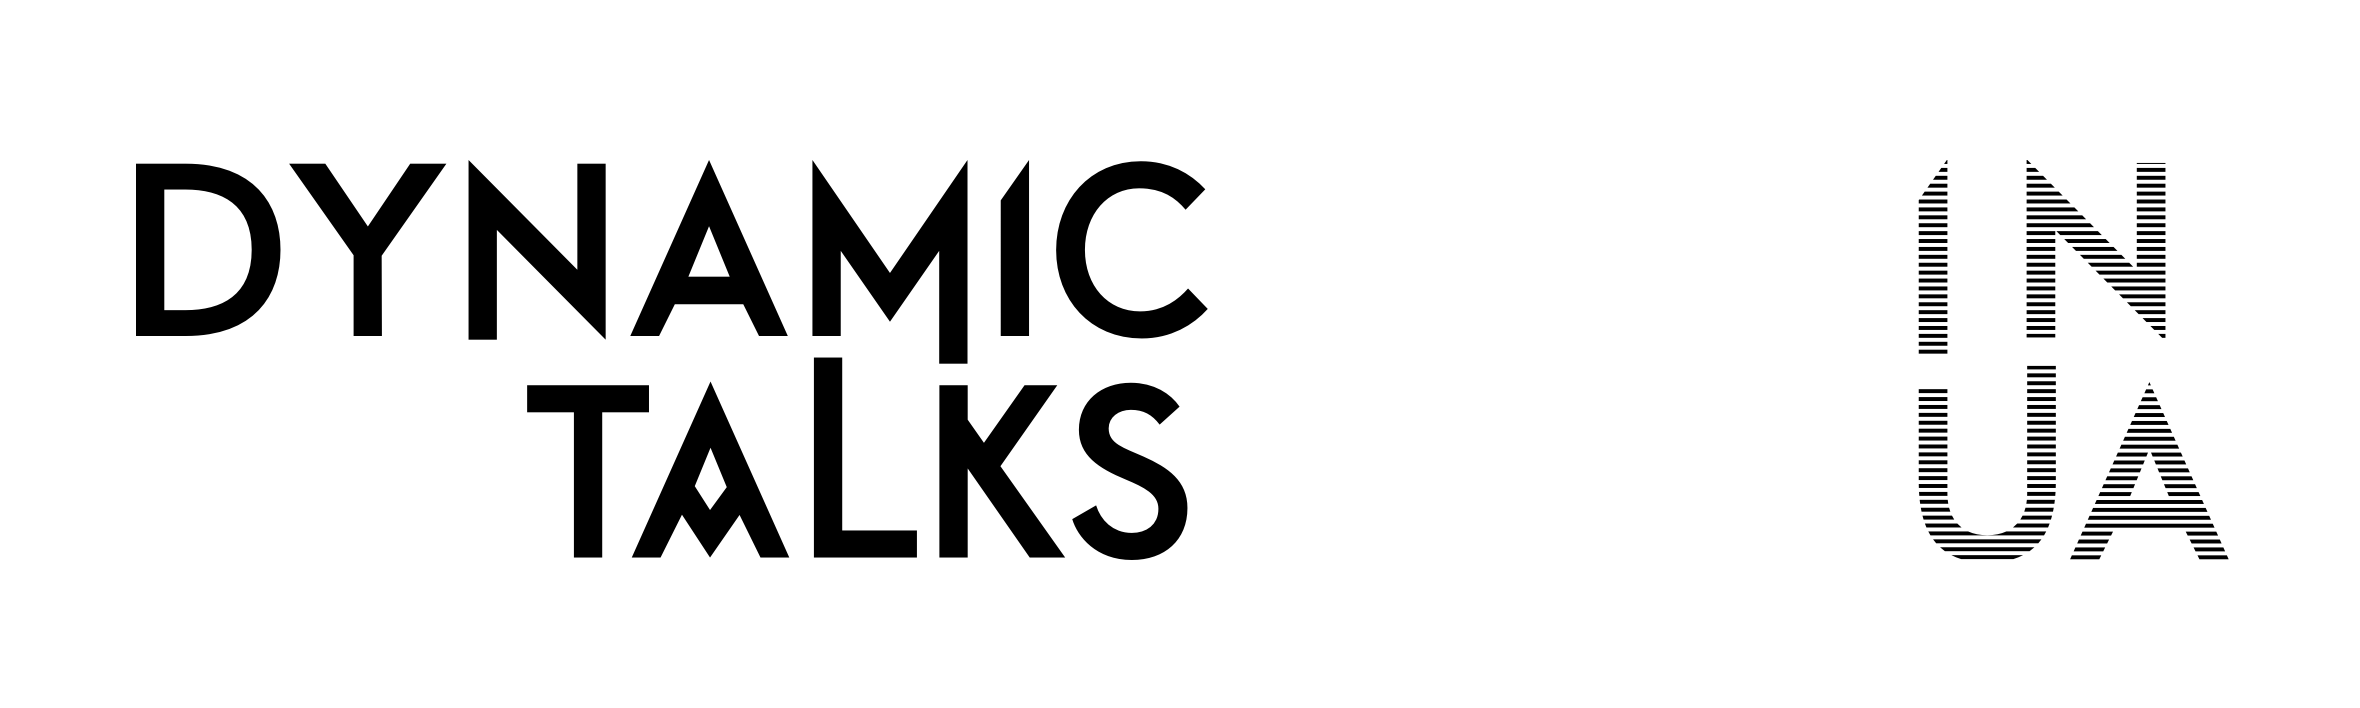
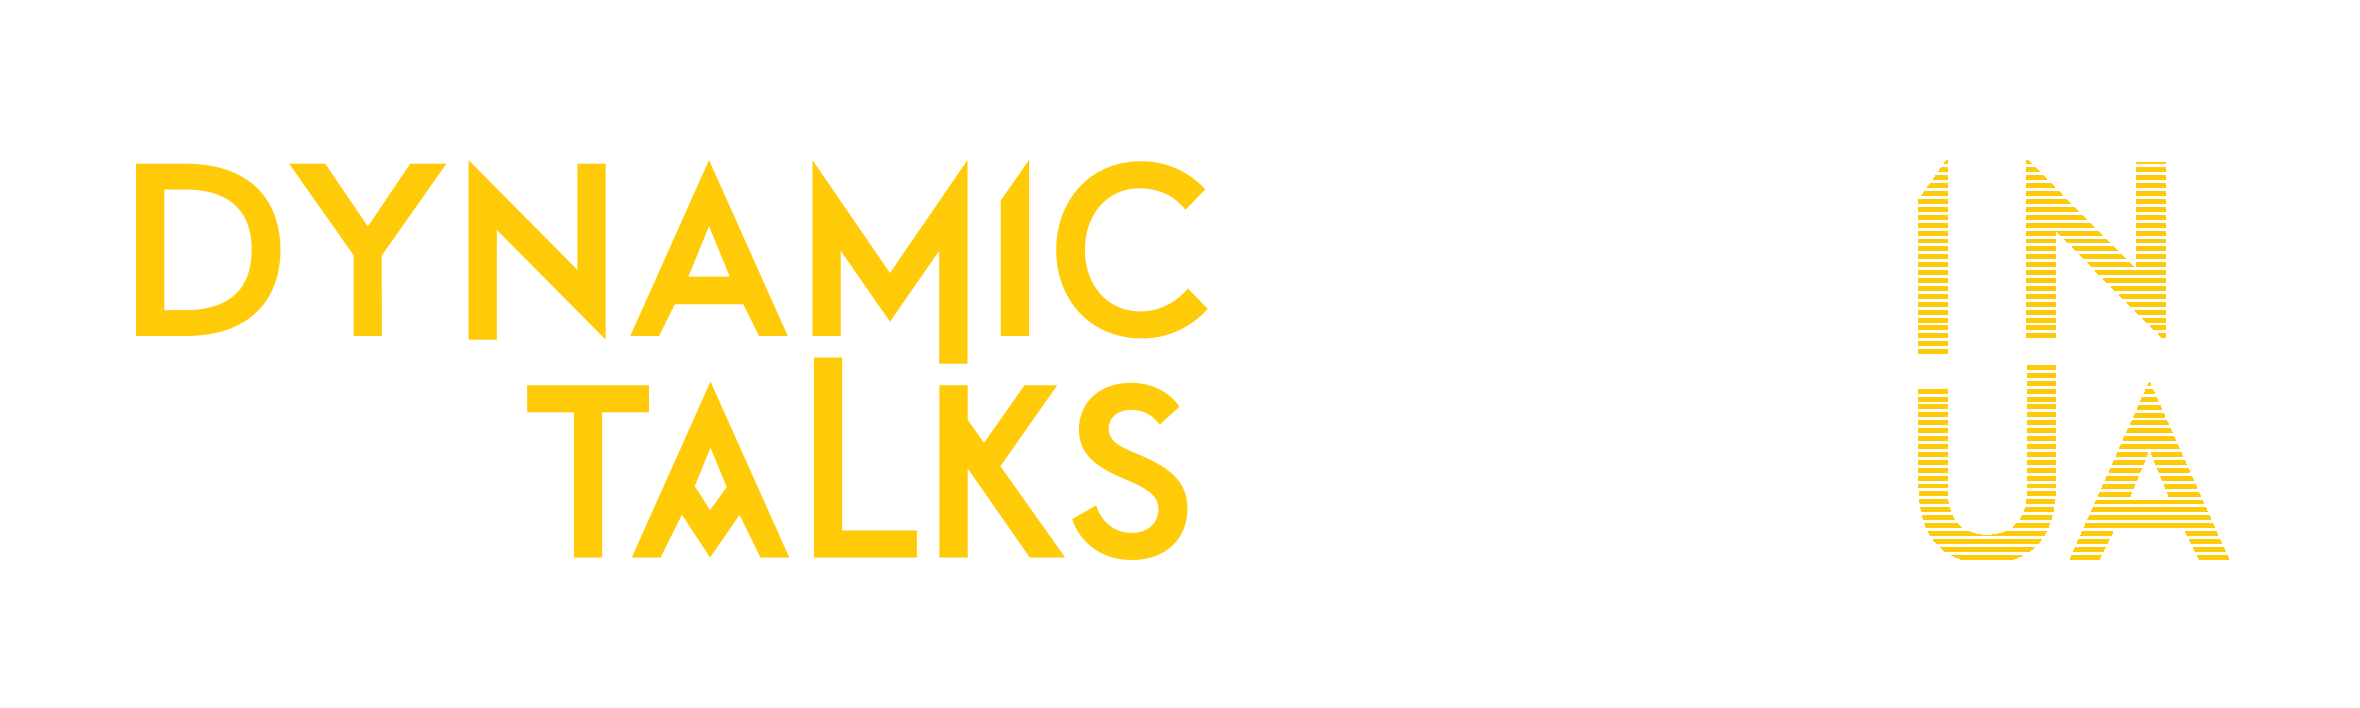
purple styles

Changed region(s): [[0.0309, 0.2175, 0.5258, 0.8079], [0.8042, 0.5282, 0.9589, 0.8079], [0.8042, 0.2175, 0.928, 0.4972]]

diff --git a/src/components/Section/SectionHeader/SectionHeader.js b/src/components/Section/SectionHeader/SectionHeader.js
@@ -11,6 +11,10 @@ import './SectionHeader.scss';
 
 
 export const CN = 'section-header';
+export const TITLE_THEMES = {
+  PRIMARY: 'primary',
+  SECONDERY: 'secondery'
+};
 
 
 export default class SectionHeader extends Component {
@@ -74,15 +78,17 @@ export default class SectionHeader extends Component {
           logoTheme: LOGO_THEME.COLORED,
           eventDateTheme: ED_THEME.YELLOW,
           regButtonTheme: BUTTON_THEME.YELLOW,
-          eventPlaceTheme: EP_THEME.YELLOW
+          eventPlaceTheme: EP_THEME.YELLOW,
+          titleTheme: TITLE_THEMES.PRIMARY
         };
       case SECTION_THEME.YELLOW:
       default:
         return {
           logoTheme: LOGO_THEME.BW,
           eventDateTheme: ED_THEME.WHITE,
-          regButtonTheme: BUTTON_THEME.WHITE,
-          eventPlaceTheme: EP_THEME.WHITE
+          regButtonTheme: BUTTON_THEME.YELLOW,
+          eventPlaceTheme: EP_THEME.WHITE,
+          titleTheme: TITLE_THEMES.SECONDERY
         };
     }
   }
@@ -116,7 +122,7 @@ export default class SectionHeader extends Component {
 
 
         <div className={`${CN}__col ${CN}__col--middle`}>
-          { title && <h2 className={`${CN}__title`}>{title}</h2> }
+          { title && <h2 className={`${CN}__title ${CN}__title--${themes.titleTheme}`}>{title}</h2> }
           { shape && <div className={`${CN}__shape ${CN}__shape--${shape}`}/> }
         </div>
 

diff --git a/src/components/Speakers/Speaker/Speaker.scss b/src/components/Speakers/Speaker/Speaker.scss
@@ -9,7 +9,7 @@
   align-items: center;
   width: 30%;
   padding-bottom: 200px;
-  background-color: $color-grey;
+  background-color: $color-primary2;
 
   .portrait {
     position: absolute;
@@ -19,7 +19,7 @@
       width: 200px;
       height: 200px;
       border-radius: 50%;
-      border: 12px solid $color-orange;
+      border: 12px solid $color-primary;
     }
   }
 
@@ -27,7 +27,7 @@
     @include font-family-opensans-bold;
 
     text-align: center;
-    color: $color-black;
+    color: $color-white;
     font-size: 1.5em;
     text-transform: uppercase;
     position: relative;
@@ -48,7 +48,7 @@
     .special-guest {
       font-family: $font-family-opensans-regular;
       margin-bottom: 20px;
-      color: $color-orange;
+      color: $color-white;
       font-size: 0.7em;
       text-align: left;
       text-transform: none;
@@ -64,11 +64,11 @@
 
   p {
     font-family: $font-family-opensans-regular;
-    color: $color-black;
     font-size: 1.3em;
   }
 
   p, ul {
+    color: $color-white;
     padding: 10px 20px;
     font-size: $font-size-regular-res;
   }

diff --git a/src/components/Top/Top.scss b/src/components/Top/Top.scss
@@ -4,7 +4,6 @@
 
 .main {
   position: relative;
-  background-color: $color-orange;
   overflow: hidden;
   box-sizing: border-box;
   min-height: 101vh;
@@ -38,7 +37,7 @@
       p {
         @include font-family-opensans-bold();
         text-transform: uppercase;
-        color: $color-white;
+        color: $color-secondary;
         font-size: 3rem;
         letter-spacing: .95rem;
       }

diff --git a/src/variables.scss b/src/variables.scss
@@ -1,6 +1,14 @@
 $font-family-opensans-regular: 'Open Sans', sans-serif;
 
+
+$color-pink: #8725FB;
+$color-pink-light: #9B2DFB;
 $color-orange: #FFCB09;
+
+$color-primary: $color-pink;
+$color-primary2: $color-pink-light;
+$color-secondary: $color-orange;
+
 $color-white: #fff;
 $color-black: #000;
 $color-grey: rgba(248, 248, 248, 0.86);

diff --git a/src/components/Footer/Footer.scss b/src/components/Footer/Footer.scss
@@ -32,12 +32,12 @@
   }
 
   a {
-    color: $color-orange;
+    color: $color-primary;
     text-decoration: none;
 
     a, a:hover, a:active, a:visited, a:focus{
       text-decoration: none;
-      color: $color-orange;
+      color: $color-primary;
     }
   }
 }

diff --git a/src/components/Section/SectionHeader/SectionHeader.scss b/src/components/Section/SectionHeader/SectionHeader.scss
@@ -30,6 +30,14 @@
     text-align: center;
     text-transform: uppercase;
     padding-bottom: 10%;
+
+    &--primary {
+      color: $color-black;
+    }
+
+    &--secondery {
+      color: $color-white;
+    }
   }
 
   &__shape {

diff --git a/src/components/Meetup/Meetup.scss b/src/components/Meetup/Meetup.scss
@@ -64,7 +64,7 @@
         font-size: 1.125em;
         font-weight: bold;
         text-transform: uppercase;
-        color: $color-orange;
+        color: $color-primary;
         pointer-events: none;
       }
 

diff --git a/src/components/Nav/Nav.scss b/src/components/Nav/Nav.scss
@@ -29,7 +29,7 @@
       display: inline-block;
       opacity: 0.36;
       border-radius: 50%;
-      background: $color-black;
+      background: $color-secondary;
     }
 
     &.active {

diff --git a/src/components/Organizers/Organizers.scss b/src/components/Organizers/Organizers.scss
@@ -78,7 +78,7 @@
     a {
       margin: 0 15px;
       text-decoration: none;
-      color: $color-orange;
+      color: $color-primary;
       font-size: 1.5em;
     }
 

diff --git a/src/components/Section/Section.scss b/src/components/Section/Section.scss
@@ -17,6 +17,6 @@
   }
 
   &--yellow {
-    background-color: $color-orange;
+    background-color: $color-primary;
   }
 }

diff --git a/src/components/Section/EventPlace/EventPlace.scss b/src/components/Section/EventPlace/EventPlace.scss
@@ -18,7 +18,7 @@
   }
 
   &--yellow h3 {
-    color: $color-orange;
+    color: $color-primary;
   }
 
   &--white h3 {

diff --git a/src/components/Section/EventDate/EventDate.scss b/src/components/Section/EventDate/EventDate.scss
@@ -18,7 +18,7 @@
   }
 
   &--yellow {
-    color: $color-orange;
+    color: $color-primary;
   }
 
   &--white {
